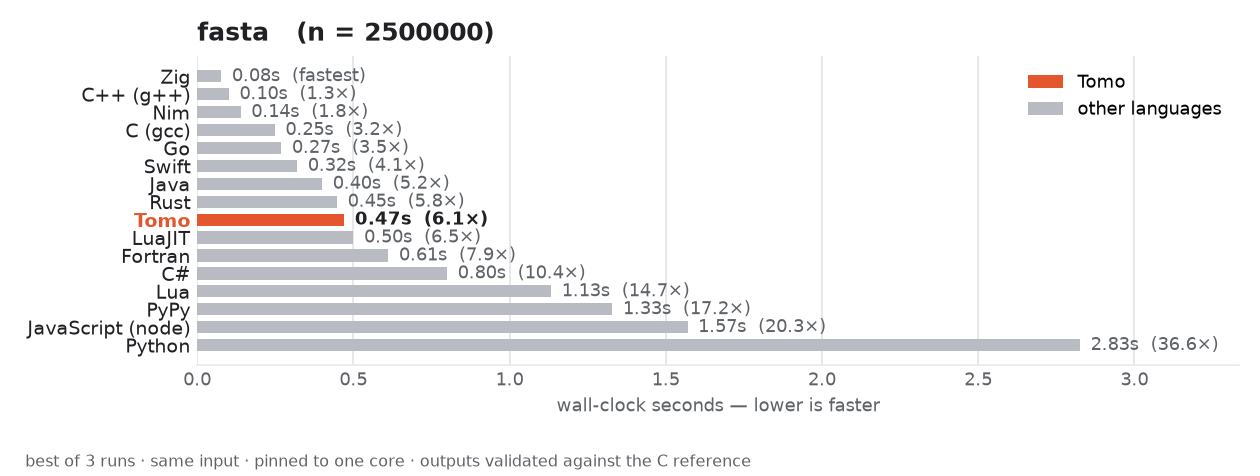
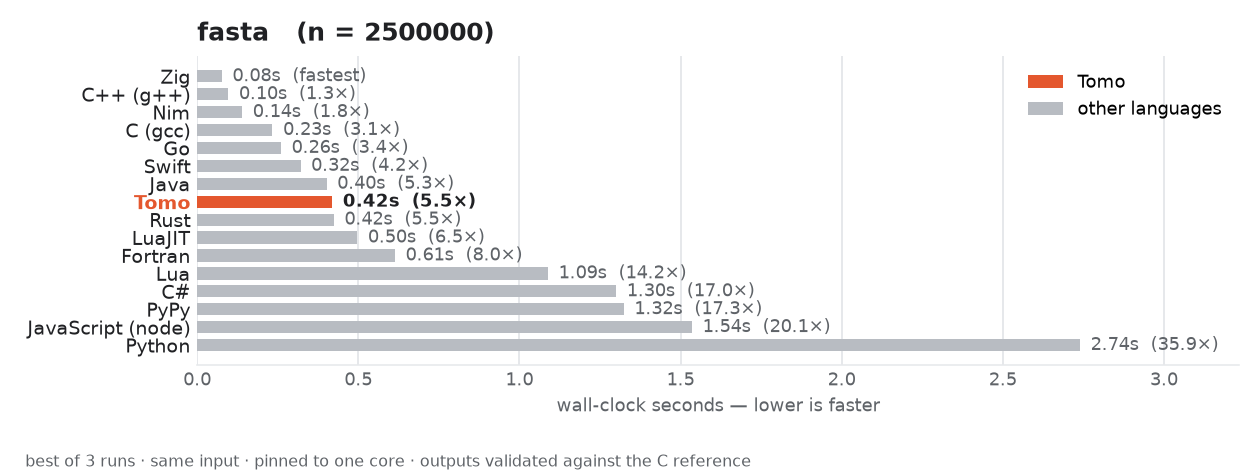
Refresh fasta benchmark numbers after the is_constant fix
Recompiling the fasta port with the constant-globals fix drops it to 0.42s
(from 0.47s), now edging out Rust and ~1.8x C. Regenerated the fasta and
combined graphs; updated the README summary. Other benchmarks are unaffected
(they don't read numeric-constructor globals in a hot loop).

diff --git a/benchmarks/README.md b/benchmarks/README.md
@@ -27,9 +27,9 @@ ahead of Go and Java. On the hash-table-heavy **k-nucleotide** it's a strong
 languages, with only C, C++, Go, and a warmed-up LuaJIT faster. **binary-trees**
 (an allocation/GC stress test) has it at 0.31s, mid-pack and ahead of Go and
 every scripting language. **fasta** is Tomo's softest benchmark but no longer an
-outlier — at 0.47s it's ~1.9× C (in line with n-body), ahead of LuaJIT,
-Fortran, C#, and every scripting language, with only the hand-tuned byte-level
-entries (Zig, C++, Nim, C, Go, Swift, Java) faster.
+outlier — at 0.42s it's ~1.8× C (in line with n-body), edging out Rust and
+ahead of LuaJIT, Fortran, and every scripting language, with only the hand-tuned
+byte-level entries (Zig, C++, Nim, C, Go, Swift, Java) clearly faster.
 
 The top of each compute chart is now crowded with fast natives — Zig, Nim, and
 Fortran routinely lead — but no garbage-collected, memory-safe language in the
